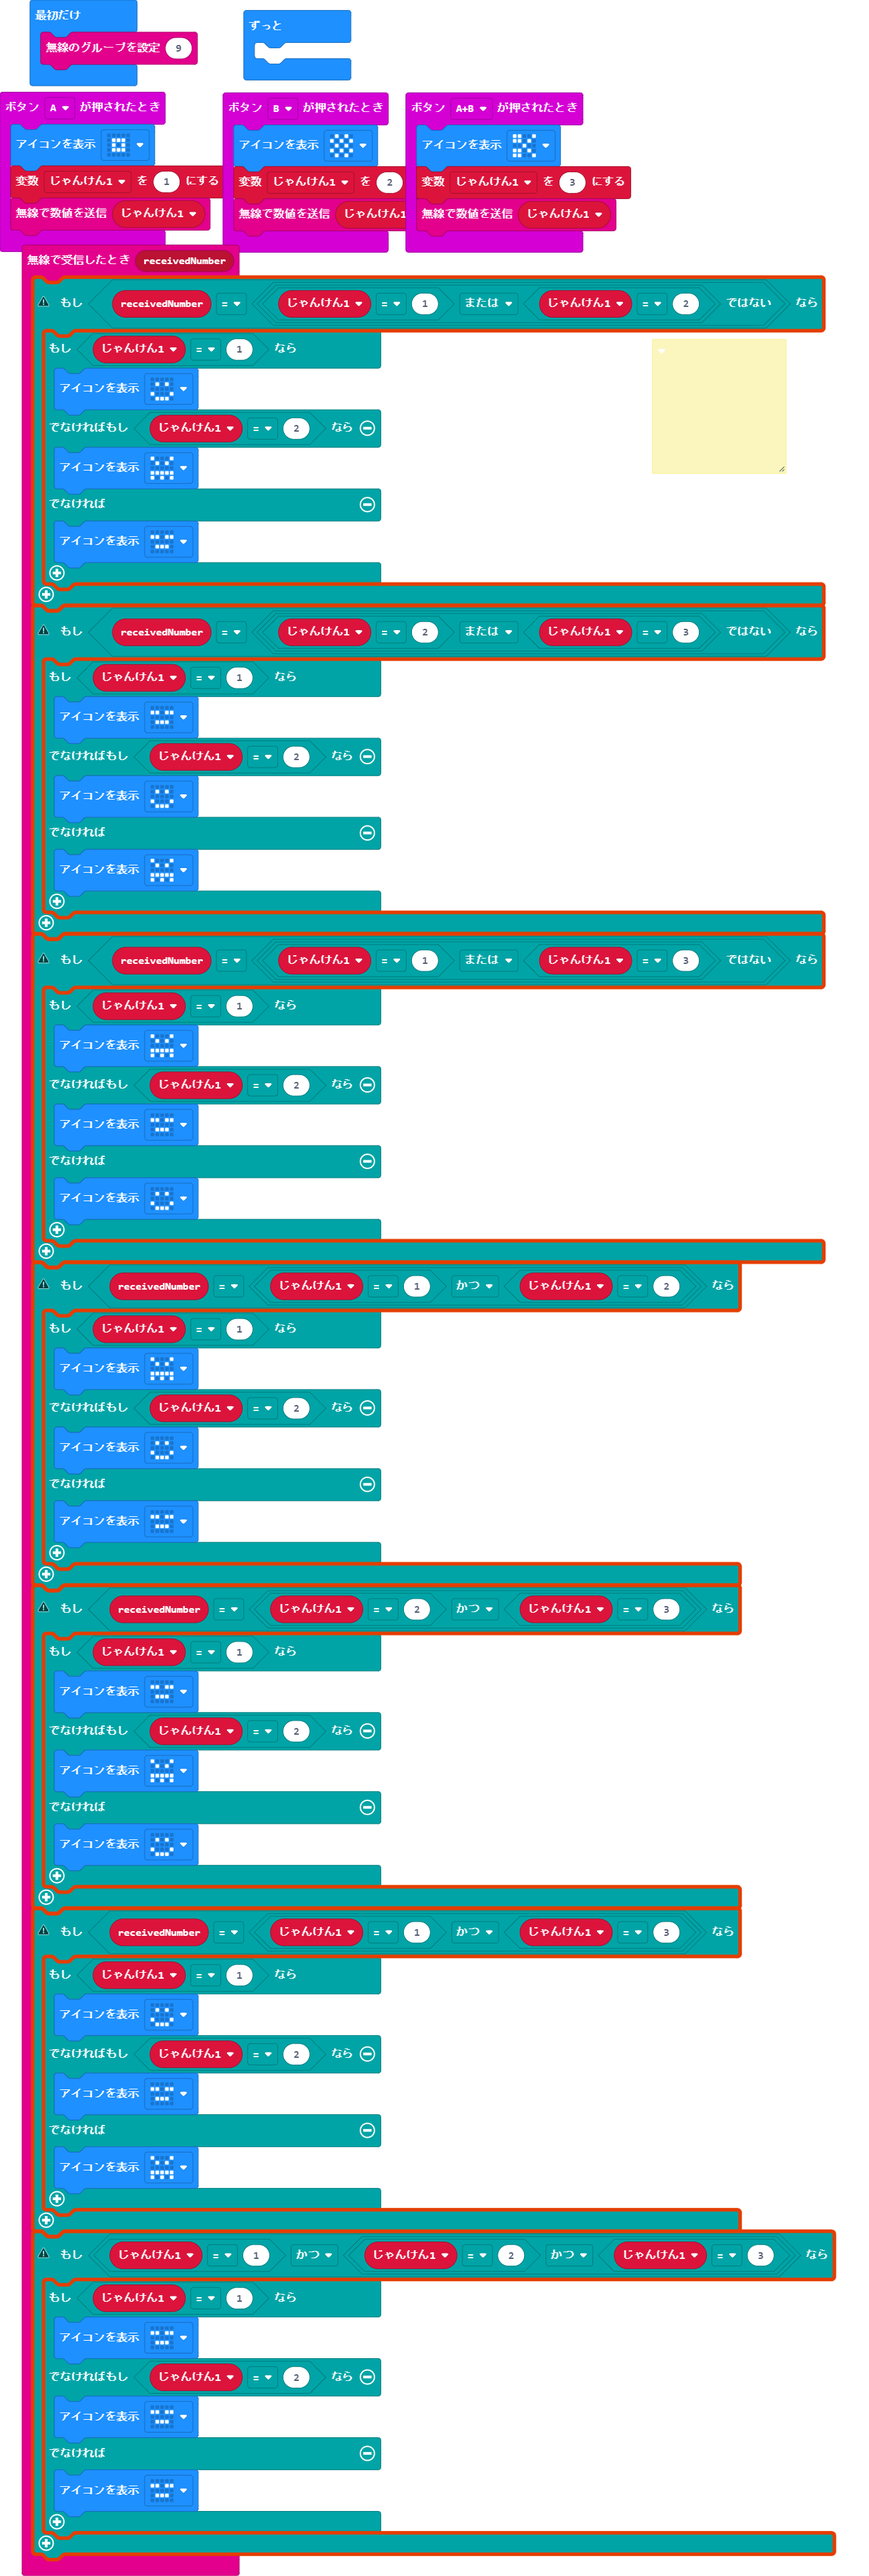
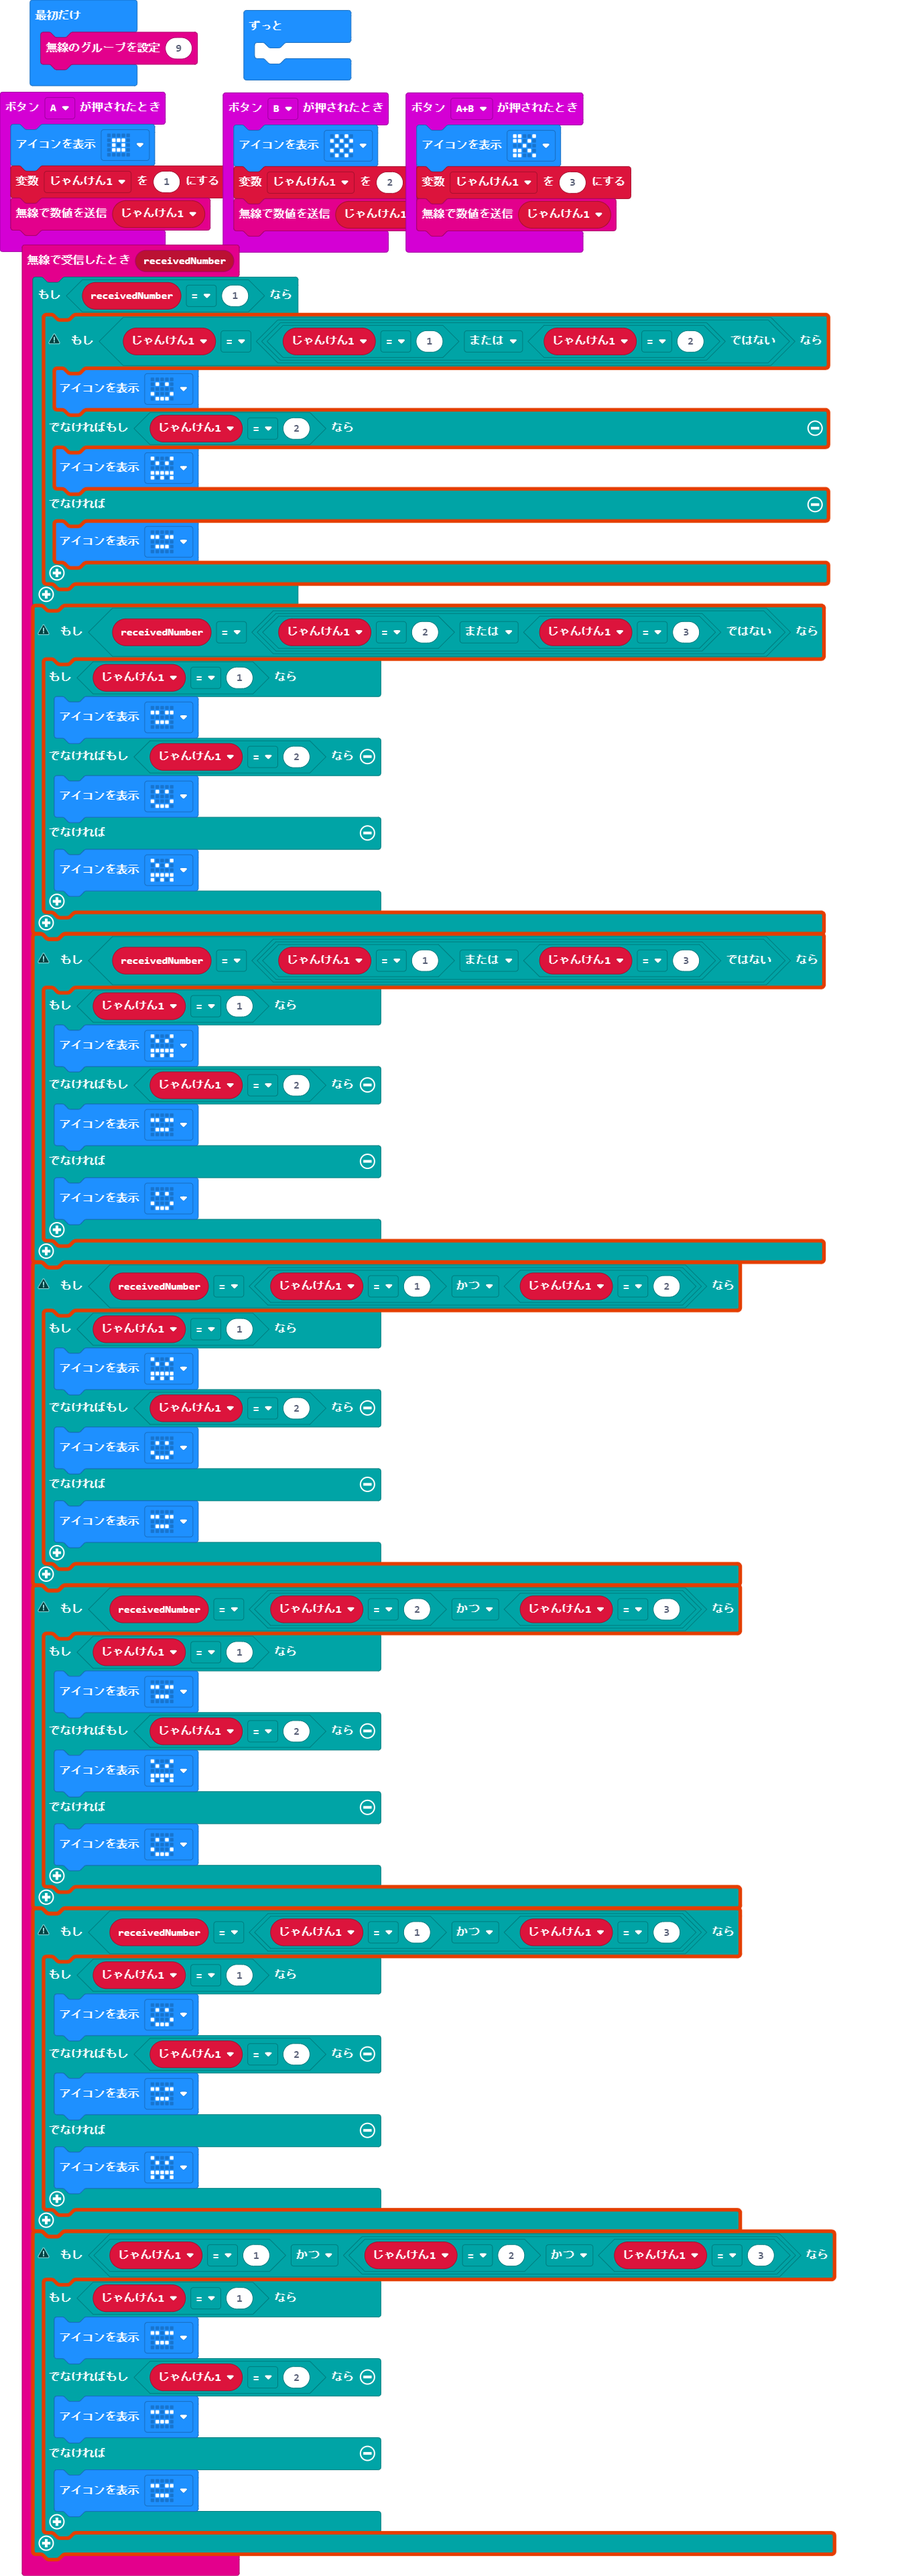
じゃんけんの３

diff --git a/main.ts b/main.ts
@@ -1,8 +1,6 @@
-/**
- */
 radio.onReceivedNumber(function (receivedNumber) {
-    if (receivedNumber == !(じゃんけん1 == 1 || じゃんけん1 == 2)) {
-        if (じゃんけん1 == 1) {
+    if (receivedNumber == 1) {
+        if (じゃんけん1 == !(じゃんけん1 == 1 || じゃんけん1 == 2)) {
             basic.showIcon(IconNames.Happy)
         } else if (じゃんけん1 == 2) {
             basic.showIcon(IconNames.Angry)
